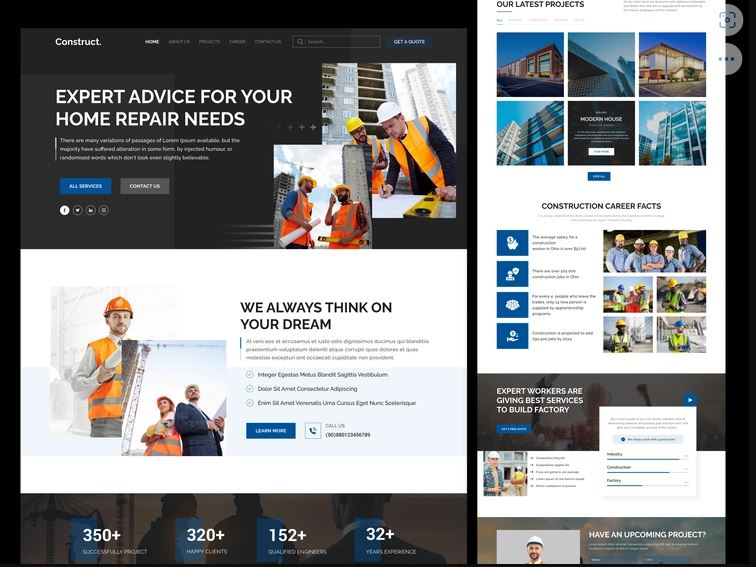
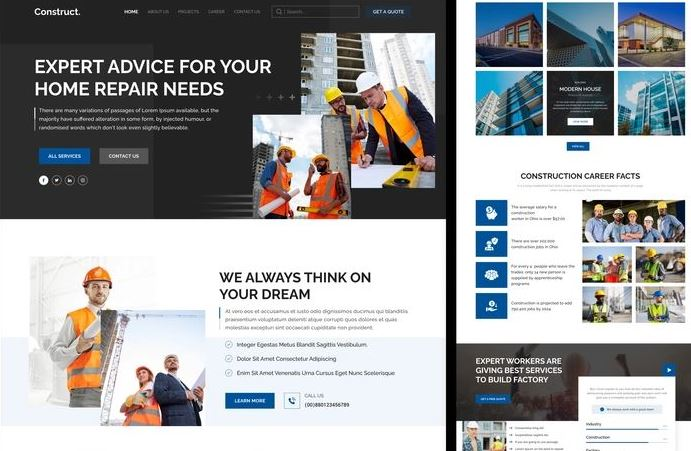
adding Contact and Footer

diff --git a/app/Components/Projects/Project.tsx b/app/Components/Projects/Project.tsx
@@ -1,37 +1,49 @@
-import airbnbImage from "../../assets/Projects/airbnb.jpg";
-import youTubeImage from "../../assets/Projects/youTube.jpg";
+import lendingImage from "../../assets/Projects/lending-page.jpg";
+import interiorImage from "../../assets/Projects/interior-design.jpg";
 import constructImage from "../../assets/Projects/construct.jpg";
-import leetscodeImage from "../../assets/Projects/leetscode.jpg";
+import hotelImage from "../../assets/Projects/hotel.jpg";
+import metaverseImage from "../../assets/Projects/metaverse.jpg";
+import vrImage from "../../assets/Projects/vr.jpg";
 import ProjectItems from "./projectItems";
 const Project = () => {
   return (
     <>
-      <div className=" mt-20 h-screen">
+      <div className=" mt-10 h-screen">
         <div className=" ml-10">
           <h1>Projects</h1>
           <h2 className="text-sm font-medium tracking-widest text-black/60 ml-7">
             What I have Built{" "}
           </h2>
         </div>
-        <div className="grid md:grid-cols-2 gap-10 mx-4 my-4">
+        <div className="grid md:grid-cols-3 gap-10 mx-20">
           <ProjectItems
-            title="Airbnb Clone App"
-            backgroundImage={airbnbImage}
-            imageURL="/airbnb.com"
+            title="Home Design"
+            backgroundImage={lendingImage}
+            imageURL="/"
           />
           <ProjectItems
-            title="Construct Web App"
+            title="Construct"
             backgroundImage={constructImage}
             imageURL="/"
           />
           <ProjectItems
-            title="You Tube Clone App"
-            backgroundImage={youTubeImage}
+            title="Hotel & Resort"
+            backgroundImage={hotelImage}
             imageURL="/"
           />
           <ProjectItems
-            title="LeetsCode Clone App"
-            backgroundImage={leetscodeImage}
+            title="Interior Design"
+            backgroundImage={interiorImage}
+            imageURL="/"
+          />
+          <ProjectItems
+            title="Virtual Reality"
+            backgroundImage={vrImage}
+            imageURL="/"
+          />
+          <ProjectItems
+            title="Metaverse Web"
+            backgroundImage={metaverseImage}
             imageURL="/"
           />
           {/* 2 */}

diff --git a/app/Components/Footer/Footer.tsx b/app/Components/Footer/Footer.tsx
@@ -1,7 +1,30 @@
-import React from "react";
+import { FaFacebookF, FaLinkedinIn } from "react-icons/fa";
+import { BsWhatsapp, BsGithub } from "react-icons/bs";
 
 const Footer = () => {
-  return <div>Footer</div>;
+  return (
+    <>
+      <div className="container flex justify-between items-center mx-auto bg-slate-300 px-10">
+        <div>
+          <p>Copyright &copy; Muhammad Owais PIAIC Student </p>
+        </div>
+        <div className="flex justify-center item-center py-3 gap-5">
+          <div className=" rounded-full shadow-lg shadow-gray-500 hover:scale-105 cursor-pointer duration-500 p-2">
+            <FaFacebookF size={15} />
+          </div>
+          <div className=" rounded-full shadow-lg shadow-gray-500 hover:scale-105 cursor-pointer duration-500 p-2">
+            <BsWhatsapp size={15} />
+          </div>
+          <div className=" rounded-full shadow-lg shadow-gray-500 hover:scale-105 cursor-pointer duration-500 p-2">
+            <FaLinkedinIn size={15} />
+          </div>
+          <div className=" rounded-full shadow-lg shadow-gray-500 hover:scale-105 cursor-pointer duration-500 p-2">
+            <BsGithub size={15} />
+          </div>
+        </div>
+      </div>
+    </>
+  );
 };
 
 export default Footer;

diff --git a/app/Components/Projects/projectItems.tsx b/app/Components/Projects/projectItems.tsx
@@ -1,4 +1,3 @@
-import React from "react";
 import Link from "next/link";
 import Image from "next/image";
 export default function ProjectItems({
@@ -8,11 +7,11 @@ export default function ProjectItems({
 }: any) {
   return (
     <>
-      <div className="relative h-auto w-full shadow-xl shadow-gray-400 rounded-lg group hover:bg-gradient-to-b from-[#0099FF]/50 to-[#0099FF]/70 hover:h-0 hover:rounded-lg hover:pb-[75%]">
+      <div className="relative h-auto w-full shadow-xl rounded-lg group hover:bg-gradient-to-b from-[#0099FF]/50 to-[#0099FF]/70 hover:h-0 hover:pb-[66%]">
         <Image
           src={backgroundImage}
           alt="airbnb"
-          width={600}
+          width={500}
           height={600}
           className="group-hover:opacity-10 rounded-xl"
         />
@@ -21,7 +20,7 @@ export default function ProjectItems({
             <h1 className="text-center font-body text-black/80 tracking-wider">
               {title}
             </h1>
-            <h4 className="text-center font-body text-lg font-semibold text-black tracking-wider">
+            <h4 className="text-center font-body text-md font-semibold text-black tracking-wider">
               fully Functional
             </h4>
             <Link href={imageURL}>

diff --git a/app/Components/Contact/Contact.tsx b/app/Components/Contact/Contact.tsx
@@ -1,0 +1,22 @@
+import Button from "../layout/Button";
+
+const Contact = () => {
+  return (
+    <>
+      <div className="container flex justify-between items-center p-20 mx-auto">
+        <p className=" mx-24 text-left">
+          If you require any further information, please feel free to contact
+          me. It is a polite way to end your conversation with a client. It’s
+          often given after having provided assistance to the other party and
+          you are willing to help them again
+        </p>
+        <div className="flex mx-10 gap-4">
+          <Button text={"Resume"} />
+          <Button text={"Contact Now"} />
+        </div>
+      </div>
+    </>
+  );
+};
+
+export default Contact;

diff --git a/app/globals.css b/app/globals.css
@@ -7,10 +7,10 @@
     @apply text-black
   }
   h1{
-    @apply text-2xl md:text-4xl font-bold tracking-widest
+    @apply text-xl md:text-2xl font-bold tracking-widest
   }
   h2{
-    @apply sm:text-lg md:text-2xl font-semibold tracking-wide py-2
+    @apply sm:text-lg md:text-xl font-semibold tracking-wide py-2
   }
   p{
     @apply sm:text-[12px] md:text-lg font-normal text-black/75 tracking-normal

diff --git a/app/page.tsx b/app/page.tsx
@@ -5,6 +5,7 @@ import {
   Skills,
   Footer,
   Wrapper,
+  Contact,
 } from "./Components";
 export default function Home() {
   return (
@@ -14,6 +15,7 @@ export default function Home() {
         <Section />
         <Skills />
         <Projects />
+        <Contact />
         <Footer />
       </Wrapper>
     </>

diff --git a/app/Components/index.ts b/app/Components/index.ts
@@ -5,5 +5,6 @@ export {default as Projects} from './Projects/Project';
 export {default as Footer} from './Footer/Footer';
 export {default as Wrapper} from './layout/Wrapper';
 export {default as Button} from './layout/Button';
+export {default as Contact} from './Contact/Contact';
 
 
